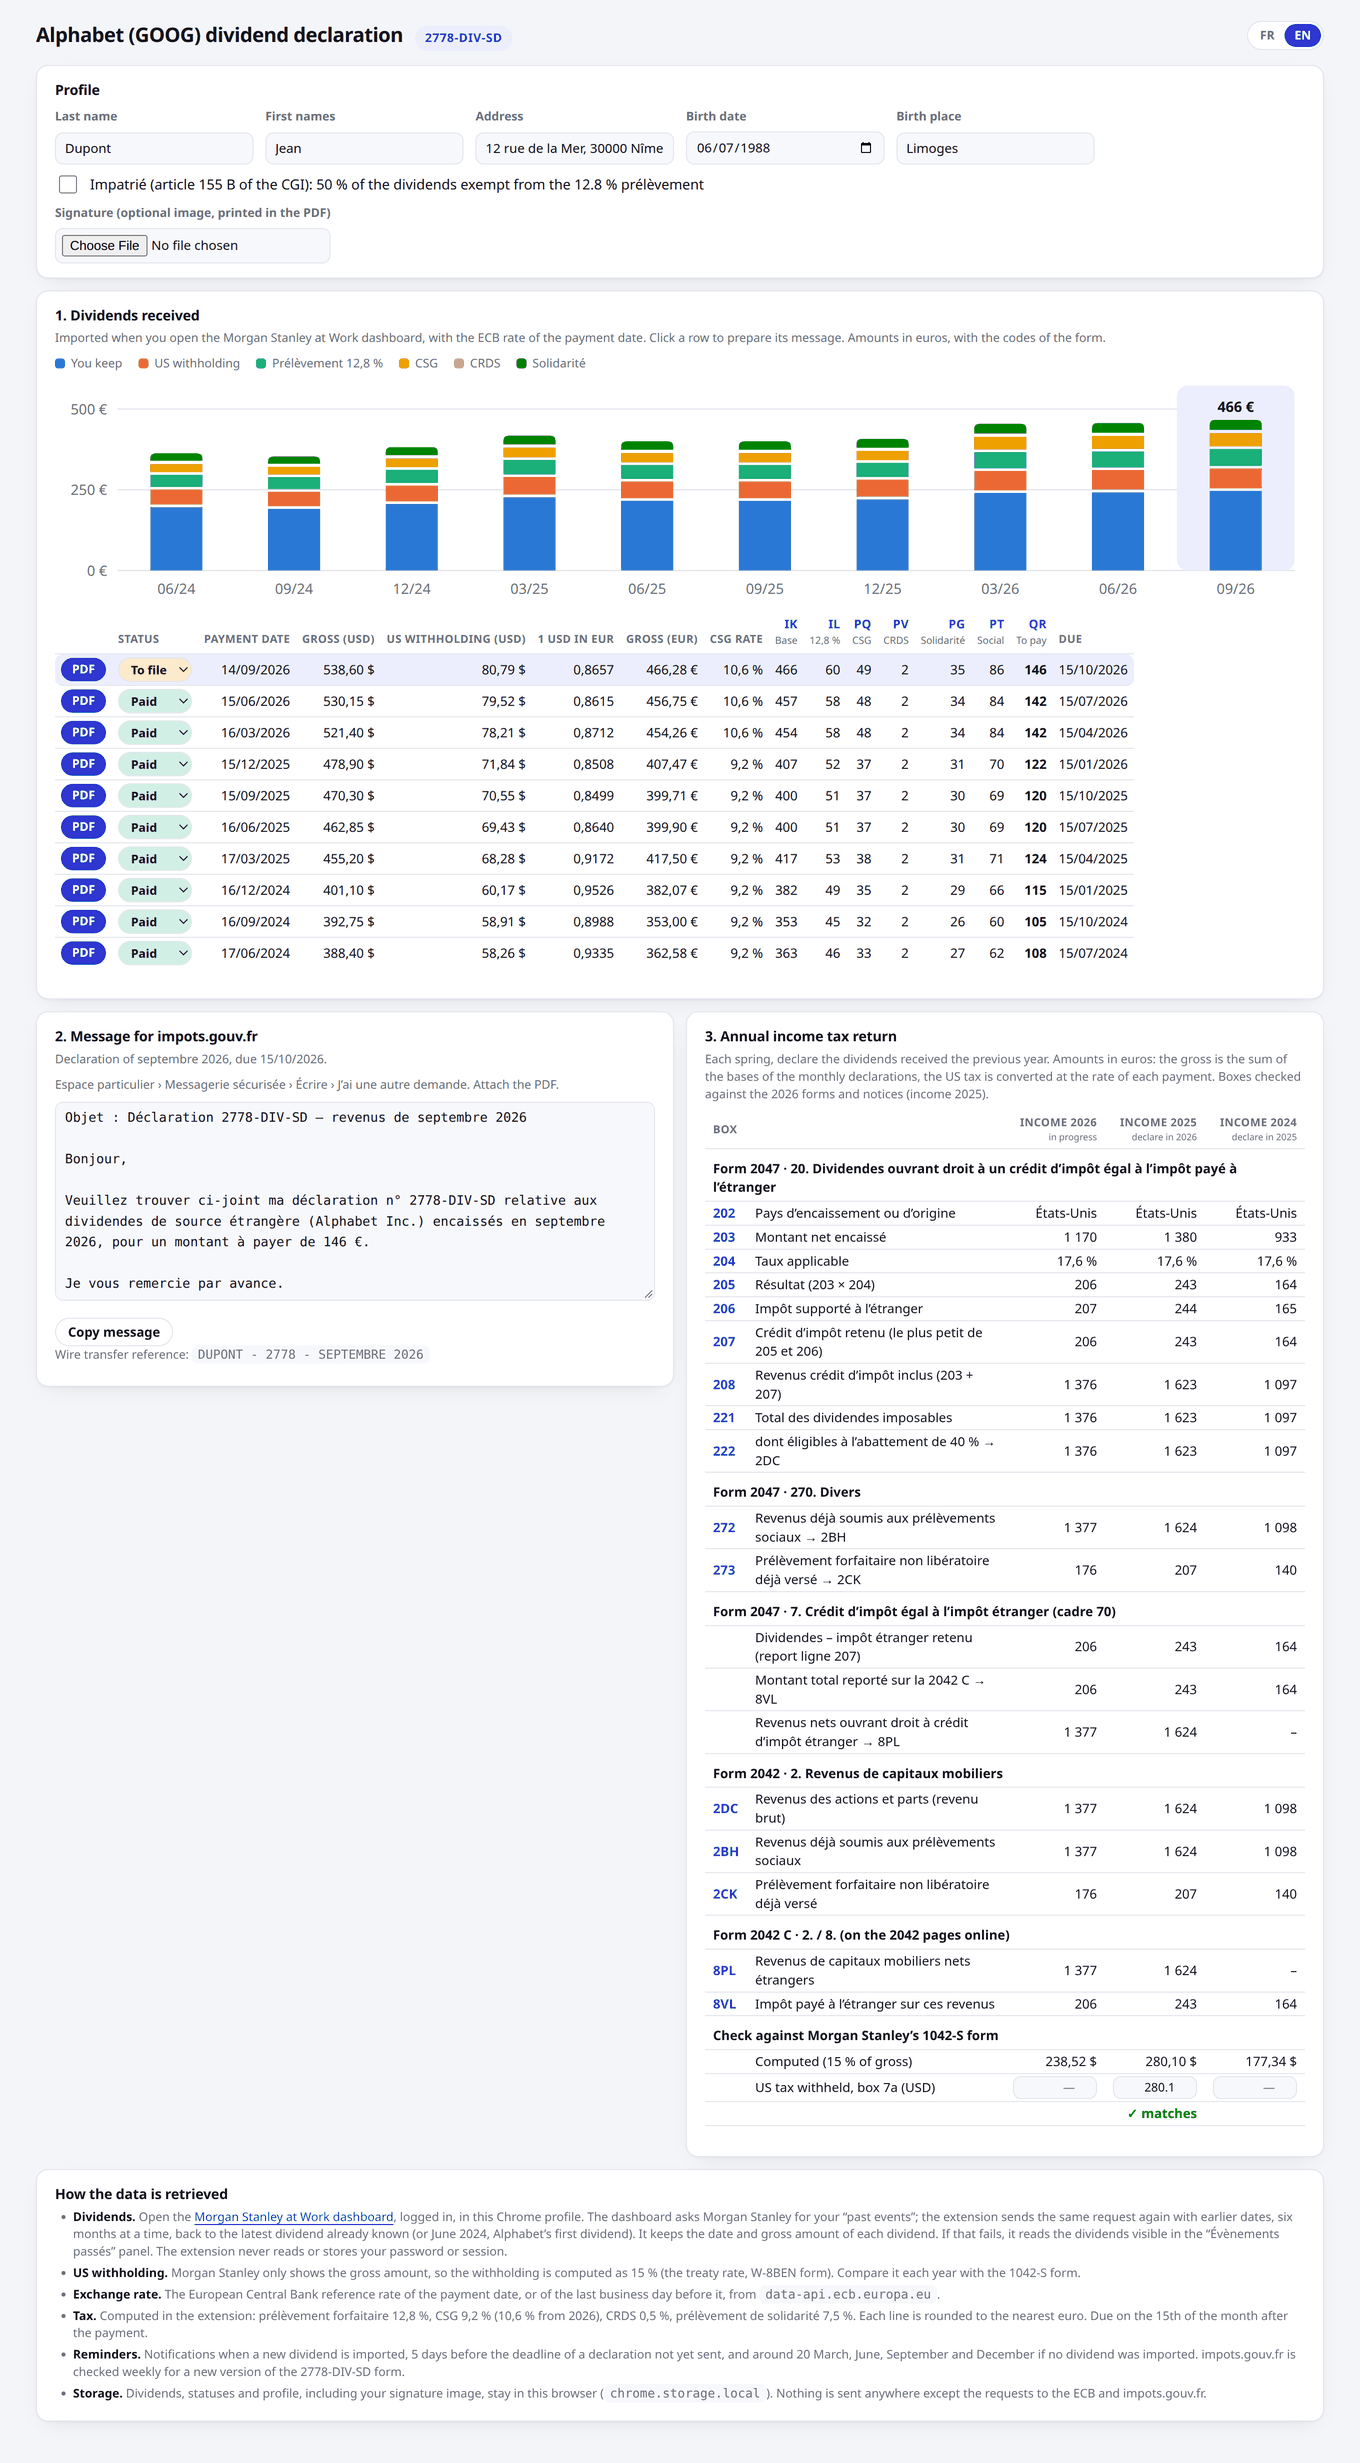
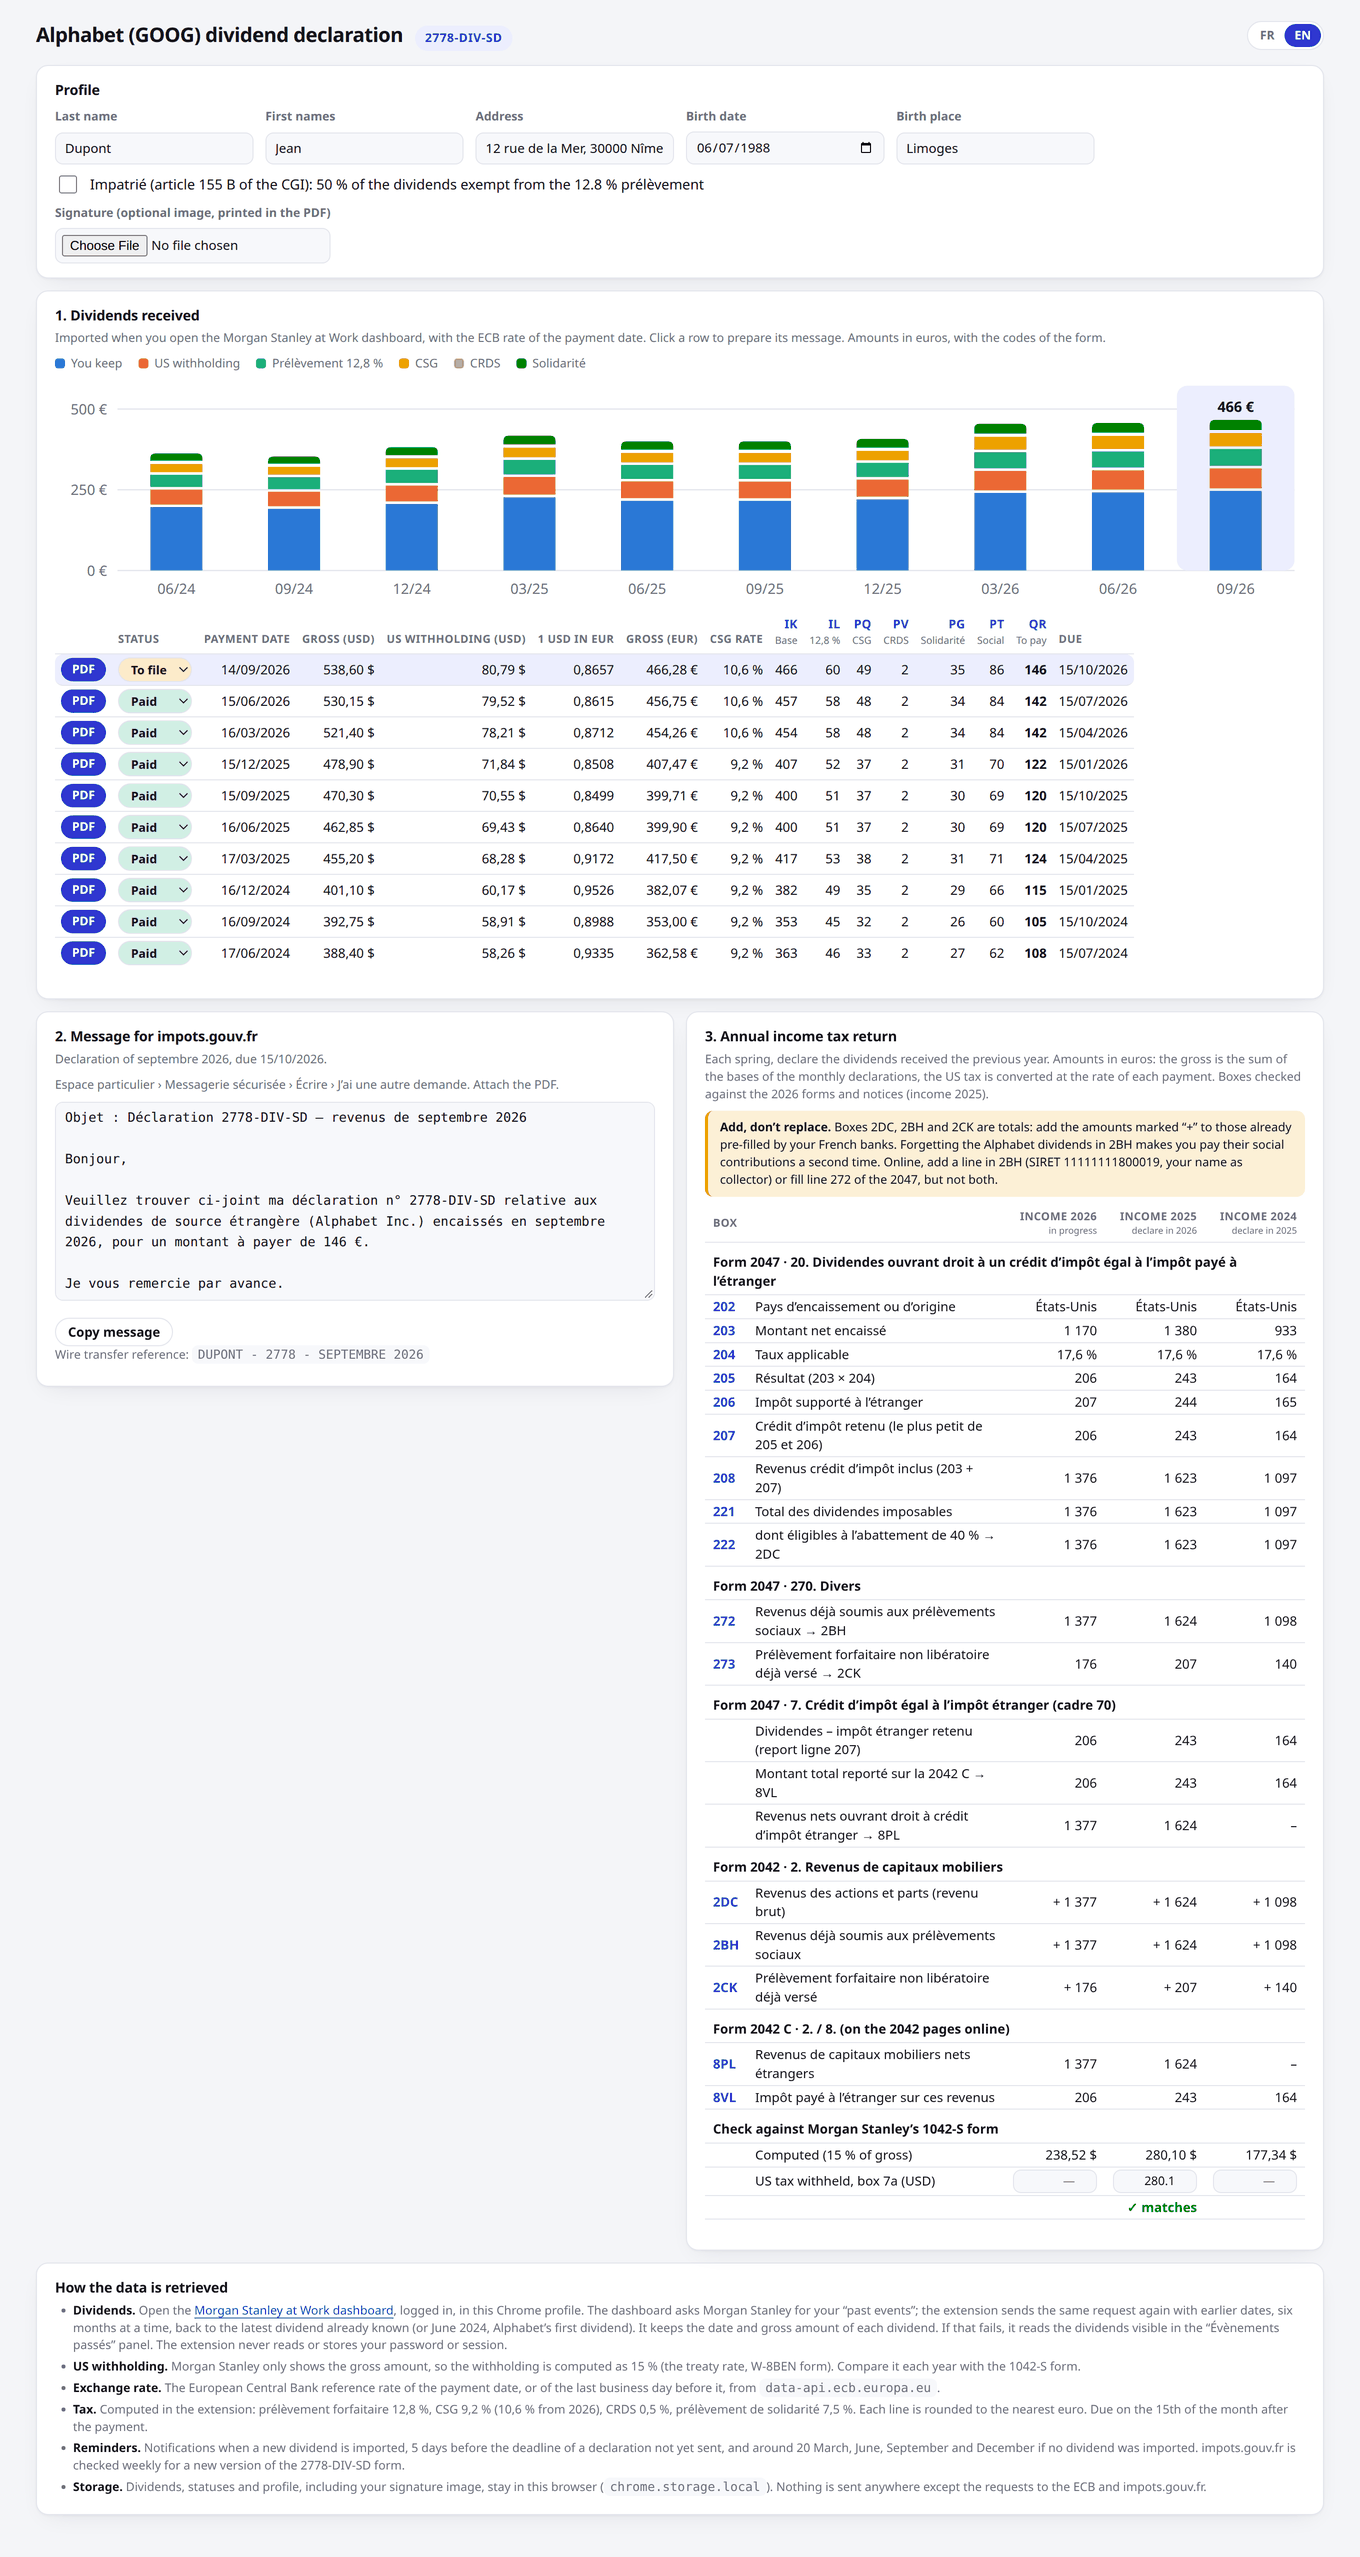
Warn that 2DC, 2BH and 2CK add to pre-filled amounts; trim README

diff --git a/extension/app.js b/extension/app.js
@@ -203,6 +203,8 @@ function renderAnnual() {
   });
   const v = (f) => returns.map((r) => `<td class="num">${r ? f(r) : '…'}</td>`).join('');
   const eur = (key) => v((r) => `${amount(r[key])}`);
+  // To add to the amounts pre-filled by French banks.
+  const plus = (f) => v((r) => `+ ${amount(f(r))}`);
   const group = (title) => `<tr class="group"><th colspan="${years.length + 2}">${title}</th></tr>`;
   const row = (box, label, cells) => `<tr><td class="box">${box}</td><td>${label}</td>${cells}</tr>`;
   const thisYear = today().slice(0, 4);
@@ -245,9 +247,9 @@ function renderAnnual() {
       ${row('', 'Montant total reporté sur la 2042 C → 8VL', v((r) => amount(r.credit + r.exemptCredit)))}
       ${row('', 'Revenus nets ouvrant droit à crédit d’impôt étranger → 8PL', from2025('gross'))}
       ${group(`${f} 2042 · 2. Revenus de capitaux mobiliers`)}
-      ${row('2DC', 'Revenus des actions et parts (revenu brut)', v((r) => amount(r.gross - r.exempt)))}
-      ${row('2BH', 'Revenus déjà soumis aux prélèvements sociaux', eur('gross'))}
-      ${row('2CK', 'Prélèvement forfaitaire non libératoire déjà versé', eur('prelevement'))}
+      ${row('2DC', 'Revenus des actions et parts (revenu brut)', plus((r) => r.gross - r.exempt))}
+      ${row('2BH', 'Revenus déjà soumis aux prélèvements sociaux', plus((r) => r.gross))}
+      ${row('2CK', 'Prélèvement forfaitaire non libératoire déjà versé', plus((r) => r.prelevement))}
       ${group(`${f} 2042 C · 2. / 8. (${t('online2042')})`)}
       ${impatrie ? row('2DM', 'Impatriés : revenus de capitaux mobiliers exonérés (50 %)', eur('exempt')) : ''}
       ${row('8PL', 'Revenus de capitaux mobiliers nets étrangers', from2025('gross'))}

diff --git a/extension/lib/i18n.js b/extension/lib/i18n.js
@@ -51,6 +51,7 @@ const TEXTS = {
 
     annualTitle: '3. Déclaration annuelle de revenus',
     annualHint: 'Chaque printemps, déclarez les dividendes reçus l’année précédente. Montants en euros : le brut est la somme des bases des déclarations mensuelles, l’impôt américain est converti au taux de chaque paiement. Cases vérifiées sur les formulaires et notices 2026 (revenus 2025).',
+    annualTotals: '<b>Ajoutez, ne remplacez pas.</b> Les cases 2DC, 2BH et 2CK sont des totaux : ajoutez les montants marqués « + » à ceux déjà préremplis par vos banques françaises. Oublier les dividendes Alphabet en 2BH fait payer leurs prélèvements sociaux une seconde fois. En ligne, ajoutez une ligne en 2BH (SIRET 11111111800019, votre nom comme collecteur) ou remplissez la ligne 272 de la 2047, mais pas les deux.',
     box: 'Case',
     income: 'Revenus {year}',
     inProgress: 'en cours',
@@ -133,6 +134,7 @@ const TEXTS = {
 
     annualTitle: '3. Annual income tax return',
     annualHint: 'Each spring, declare the dividends received the previous year. Amounts in euros: the gross is the sum of the bases of the monthly declarations, the US tax is converted at the rate of each payment. Boxes checked against the 2026 forms and notices (income 2025).',
+    annualTotals: '<b>Add, don’t replace.</b> Boxes 2DC, 2BH and 2CK are totals: add the amounts marked “+” to those already pre-filled by your French banks. Forgetting the Alphabet dividends in 2BH makes you pay their social contributions a second time. Online, add a line in 2BH (SIRET 11111111800019, your name as collector) or fill line 272 of the 2047, but not both.',
     box: 'Box',
     income: 'Income {year}',
     inProgress: 'in progress',

diff --git a/extension/app.css b/extension/app.css
@@ -186,3 +186,9 @@ select.status.paid { background: color-mix(in srgb, var(--series-3) 20%, var(--s
 /* 1042-S check. */
 #annual input.usd { width: 7em; padding: 2px 6px; text-align: right; font-size: 12px; }
 #annual td.ok { color: var(--series-6); font-weight: 600; }
+
+.warning {
+  margin: 0 0 8px; padding: 8px 12px; font-size: 12px;
+  background: color-mix(in srgb, var(--series-4) 16%, var(--surface));
+  border-left: 3px solid var(--series-4); border-radius: var(--radius-sm);
+}

diff --git a/extension/app.html b/extension/app.html
@@ -82,6 +82,7 @@
   <section>
     <h2 data-i18n="annualTitle"></h2>
     <p class="hint" data-i18n="annualHint"></p>
+    <p class="warning" data-i18n-html="annualTotals"></p>
     <div class="table-scroll">
       <table id="annual"></table>
     </div>

diff --git a/README.md b/README.md
@@ -54,25 +54,19 @@ the site may break the import until the extension is updated.
 3. Open the [Morgan Stanley at Work dashboard](https://atwork.morganstanley.com/solium/servlet/ui/dashboard)
    to import your dividends.
 
-After changing the code, click the reload icon of the extension in
-`chrome://extensions`.
+## Annual return: add, don't replace
 
-## Layout
+**2DC, 2BH and 2CK are totals**: the Alphabet amounts shown by the extension
+must be **added** to what your French banks have already pre-filled.
 
-| Path | Role |
-|---|---|
-| `extension/app.html`, `app.js`, `app.css` | The extension page |
-| `extension/background.js` | Reminders and the weekly check for a new form |
-| `extension/content/morgan-stanley-main.js` | Runs in the Morgan Stanley page: replays the past-events request |
-| `extension/content/morgan-stanley.js` | Saves the dividends found; falls back to reading the dashboard |
-| `extension/lib/tax.js` | Monthly and annual tax computation |
-| `extension/lib/pdf.js` | Fills the official form |
-| `extension/lib/ecb.js` | ECB exchange rates |
-| `extension/lib/reminders.js` | Statuses and reminders |
-| `extension/lib/form-version.js` | Detection of a new form edition |
-| `extension/lib/i18n.js` | French and English texts |
-| `extension/vendor/` | pdf-lib and the official 2778-DIV-SD form |
-| `test/` | Unit tests |
+- **2BH** matters most: if the Alphabet dividends are missing from it, their
+  social contributions, already paid through the 2778-DIV-SD declarations, are
+  charged **a second time**. Online, add a line in 2BH with SIRET
+  `11111111800019` and your name as collector, or fill line 272 of the 2047,
+  but not both.
+- **2CK** only takes the 12,8 % prélèvement (lines IL), not the social
+  contributions.
+- **8PL** is the gross amount, before the US tax (2047 line 208).
 
 ## Development
 
@@ -81,6 +75,9 @@ npm install
 npm test          # Unit tests (Node 22).
 npm run vendor    # Copy pdf-lib into extension/vendor/.
 ```
+
+After changing the code, click the reload icon of the extension in
+`chrome://extensions`.
 
 ## When a new form is published
 
